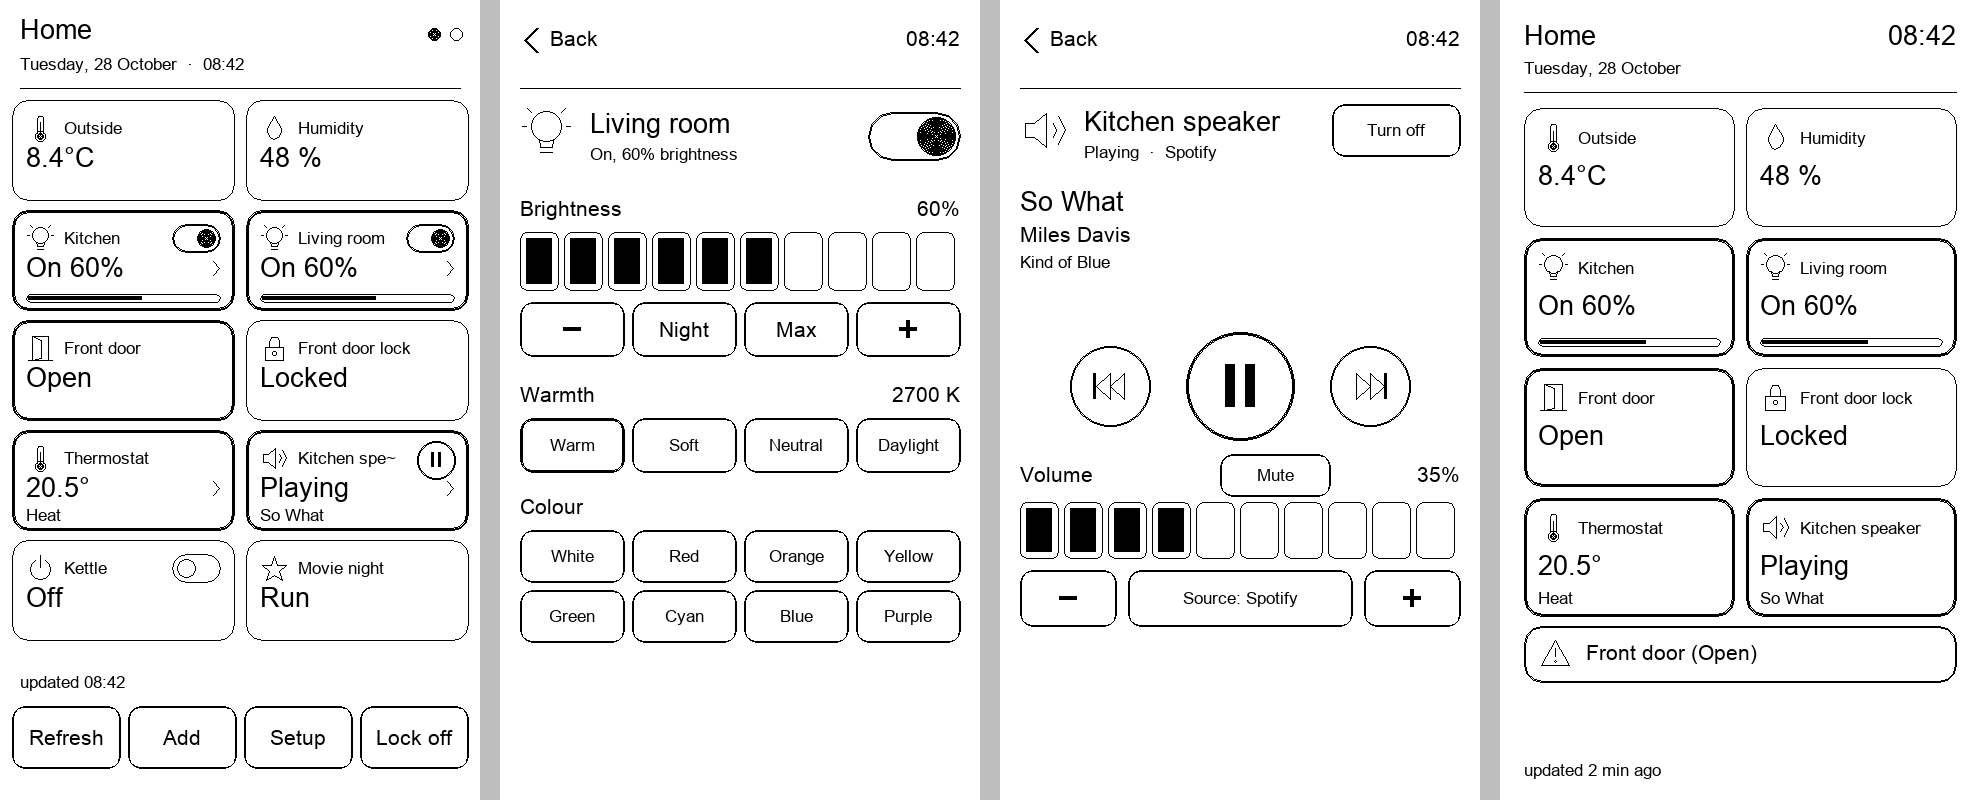
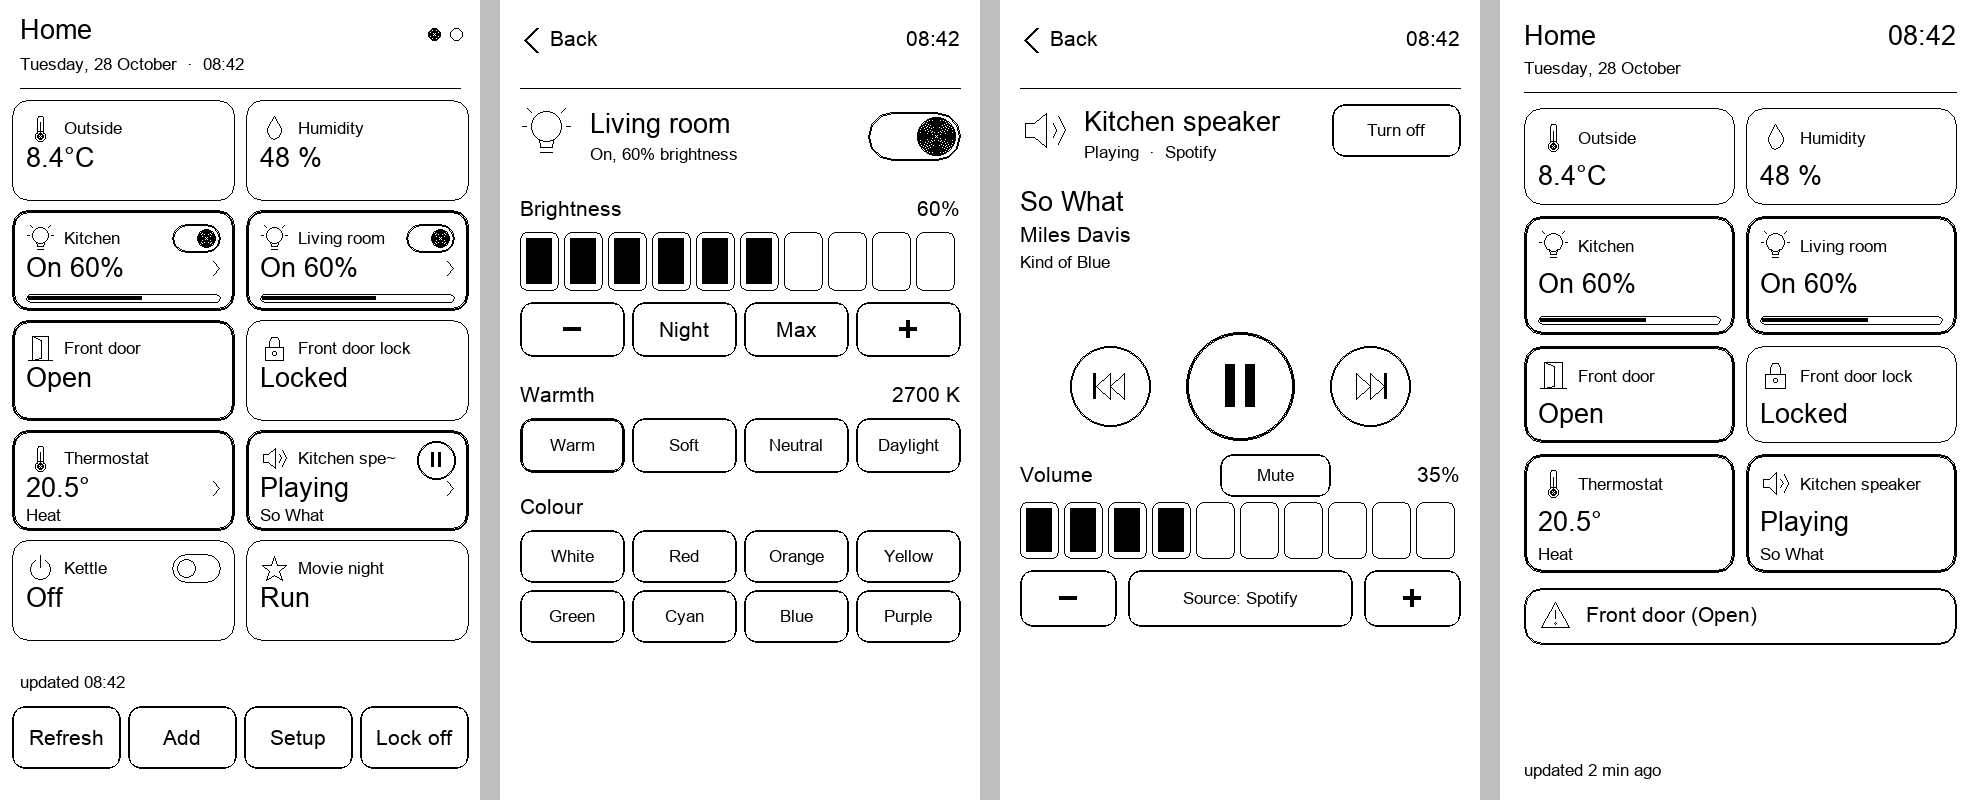
Lock screen: Wi-Fi off sign, rows as tall as their tiles; battery savings (v0.4)
- The lock screen shows a crossed-out Wi-Fi sign in front of "updated ... ago" when its last try
  got no answer (or names Home Assistant's error), and makes a row of two-line tiles lower.
- After a try with no answer it waits longer (10 up to 160 minutes) and lets Wi-Fi go at once.
- The panel stops asking every minute after ten minutes untouched and lets Wi-Fi go; Wi-Fi is
  kept for two minutes after a request instead of five; no redraw for a finger going down or
  moving; one redraw per minute instead of two.

Changed region(s): [[0.7702, 0.25, 1.0, 0.8438], [0.9859, 0.7188, 1.0, 0.75]]

diff --git a/homeassistant/test_homeassistant.py b/homeassistant/test_homeassistant.py
@@ -423,6 +423,11 @@ assert len(requests) == n + 1
 later(31)
 g.L.eval('on_tick')(ctx)
 assert len(requests) == n + 2; answer_now()
+later(11 * 60)                                             # left alone: no more asking, only the clock
+g.L.eval('on_tick')(ctx)
+assert len(requests) == n + 2
+swipe('left'); assert len(requests) == n + 3; answer_now()   # a touch asks again
+swipe('right')
 
 # ---- a token that may not render templates: one entity at a time
 mode['admin'] = False
@@ -461,7 +466,7 @@ L2.execute(open(os.path.join(HERE, 'lockscreen.lua'), encoding='utf-8').read())
 draw2 = L2.eval("function() drawn, commands = {}, 0; on_draw(ctx, gg); local t = {} for _, d in ipairs(drawn) do t[#t + 1] = d.s end return t end")
 n = len(requests)
 t = list(draw2().values())
-for s in ['Home', 'Monday, 27 October', '12:09', 'Kitchen ceili~', 'Front door lo~', 'Unlocked', 'Front door', 'Open', '21.5°C', '20.5°',
+for s in ['Home', 'Monday, 27 October', '12:20', 'Kitchen ceili~', 'Front door lo~', 'Unlocked', 'Front door', 'Open', '21.5°C', '20.5°',
           'updated 5 min ago']:
     assert s in t, (s, t)
 assert 'Kettle' not in t                                   # pinned tiles only
@@ -476,6 +481,42 @@ assert len(requests) == n + 1                              # asked once, not on 
 answer2()
 t = list(draw2().values())
 assert 'updated 0 min ago' in t and 'Locked' in t and not any('Front door lock (' in s for s in t), t
+
+# no answer while locked (Wi-Fi off): it says so and tries less and less often
+L2.execute("now_sec = now_sec + 11 * 60")
+n = len(requests)
+age_x = lambda s: [d.x for d in L2.globals().drawn.values() if str(d.s) == s]
+draw2()
+assert len(requests) == n + 1 and age_x('updated 11 min ago') == [24]         # just asked
+L2.execute("now_sec = now_sec + 60")
+draw2()
+assert age_x('updated 12 min ago') == [58] and len(requests) == n + 1         # the Wi-Fi off sign in front
+L2.execute("now_sec = now_sec + 10 * 60"); draw2()
+assert len(requests) == n + 2                              # again after 10 minutes
+L2.execute("now_sec = now_sec + 11 * 60"); draw2()
+assert len(requests) == n + 2                              # then waits 20
+L2.execute("now_sec = now_sec + 10 * 60"); draw2()
+assert len(requests) == n + 3
+mode['fail'] = True                                        # an answer, but an error
+L2.execute("now_sec = now_sec + 40 * 60"); draw2(); answer2()
+L2.execute("now_sec = now_sec + 60")
+t = list(draw2().values())
+assert len(requests) == n + 4 and any(s.endswith('· HA error 502') for s in t), t
+mode['fail'] = False
+L2.execute("now_sec = now_sec + 80 * 60"); draw2(); answer2()
+t = list(draw2().values())
+assert len(requests) == n + 5 and 'updated 0 min ago' in t, t
+# a row of two-line tiles is lower than one with a third line
+L2.globals().store['tiles.txt'] = '*sensor.power\n*switch.kitchen_kettle\n*sensor.kitchen_temperature\n*climate.living_room\n'
+L2.execute("polys = {}; local pl = gg.polyline; gg.polyline = function(self, t) polys[#polys + 1] = t; return pl(self, t) end")
+draw2()
+frames = {}
+for p in L2.globals().polys.values():
+    v = list(p.values())
+    if len(v) == 34:                                       # a rounded frame
+        xs, ys = v[0::2], v[1::2]
+        if max(xs) - min(xs) == 210: frames.setdefault(min(ys), max(ys) - min(ys))
+assert sorted(frames.items()) == [(108, 96), (216, 118)], frames
 L3 = lua54.LuaRuntime(unpack_returned_tuples=True)          # nothing saved yet
 L3.execute(STUBS)
 L3.execute(open(os.path.join(HERE, 'lockscreen.lua'), encoding='utf-8').read())

diff --git a/README.md b/README.md
@@ -109,8 +109,10 @@ Or write the list yourself in `tiles.txt` (see [Files on the SD card](#files-on-
 - **Tap** a tile as in the table above. Covers, locks and anything that is not a toggle never act
   by accident: locks ask first, covers and lights' colours are on their own screen.
 - **Long press** a tile to move it back or on, rename it, pin it to the lock screen, or remove it.
-- **Refresh** asks Home Assistant now. While the panel is open it also asks every minute; "updated
-  hh:mm" at the bottom says when it last did, "(old)" when that is over ten minutes ago.
+- **Refresh** asks Home Assistant now. While you use the panel it also asks every minute; "updated
+  hh:mm" at the bottom says when it last did, "(old)" when that is over ten minutes ago. Left
+  untouched for ten minutes (or under the lock screen) it stops asking and lets Wi-Fi switch off to
+  save the battery; the next touch asks again.
 - **Setup** changes the address, the token or the title.
 - **Lock** / **Lock off**: see [the lock screen](#the-lock-screen).
 
@@ -141,13 +143,17 @@ and the fan modes of an air conditioner; the active one has a heavy frame.
 Settings → Display the "Off wallpaper" must be **Default**). It shows:
 
 - the time and date, redrawn every minute;
-- up to eight tiles: the ones you pinned (long press → **Pin to lock**, or a `*` in `tiles.txt`),
+- up to eight tiles, each row only as tall as its contents need: the ones you pinned (long press → **Pin to lock**, or a `*` in `tiles.txt`),
   or, when none is pinned, the first eight;
 - a box listing every open door or window, water or smoke alarm, unlocked lock and open garage
   among **all** tiles, or "All doors and windows closed."
 
-When the states are older than ten minutes the lock screen asks Home Assistant again, if the reader
-lets a locked app use the network; "updated ... min ago" at the bottom tells you how fresh they are.
+When the states are older than ten minutes the lock screen asks Home Assistant again;
+"updated ... min ago" at the bottom tells you how fresh they are. A sleeping reader usually has
+Wi-Fi off, so the question gets no answer: a crossed-out Wi-Fi sign then appears in front of
+"updated 3 h ago" (or a warning sign and "HA error 401" and the like when Home Assistant answered
+with an error). Every try wakes Wi-Fi for a few seconds, so after a try with no answer it waits
+longer: 10, 20, 40, 80, then 160 minutes. Opening the app brings the states up to date at once.
 **Lock off** gives the lock screen back to the firmware.
 
 ## Files on the SD card
@@ -159,6 +165,7 @@ All in `XTApps/homeassistant/files/`, plain text you can edit on a computer:
 | `ha.txt` | `url=`, `token=`, `title=`, `lock=` (true while the app is the lock screen) |
 | `tiles.txt` | the tiles, in order: one entity a line |
 | `states.txt` | the last states, so the panel and the lock screen open at once; written by the app |
+| `lockstate.txt` | when the lock screen last asked and how many tries got no answer |
 
 `tiles.txt`:
 

diff --git a/CHANGELOG.md b/CHANGELOG.md
@@ -1,5 +1,15 @@
 # Changelog
 
+## 0.4 (2026-10-28)
+
+- Lock screen: when the states are old because the reader had no Wi-Fi, a crossed-out Wi-Fi sign
+  shows in front of "updated ... ago", or Home Assistant's error is named. A row of tiles is only as tall as its contents: name and value alone take less room.
+- Battery: the lock screen waits longer after each try that got no answer (10 minutes up to
+  160) and lets Wi-Fi go right after a try. The panel stops asking every minute once it has been
+  left alone for ten minutes and lets Wi-Fi go; a touch asks again. Wi-Fi is kept up for two
+  minutes after a request instead of five. A finger going down or moving no longer redraws the
+  screen, and the minute's update redraws once instead of twice.
+
 ## 0.3 (2026-10-28)
 
 - Thermostats: the tile shows what the thermostat is doing and its target ("Heating to 21°",
